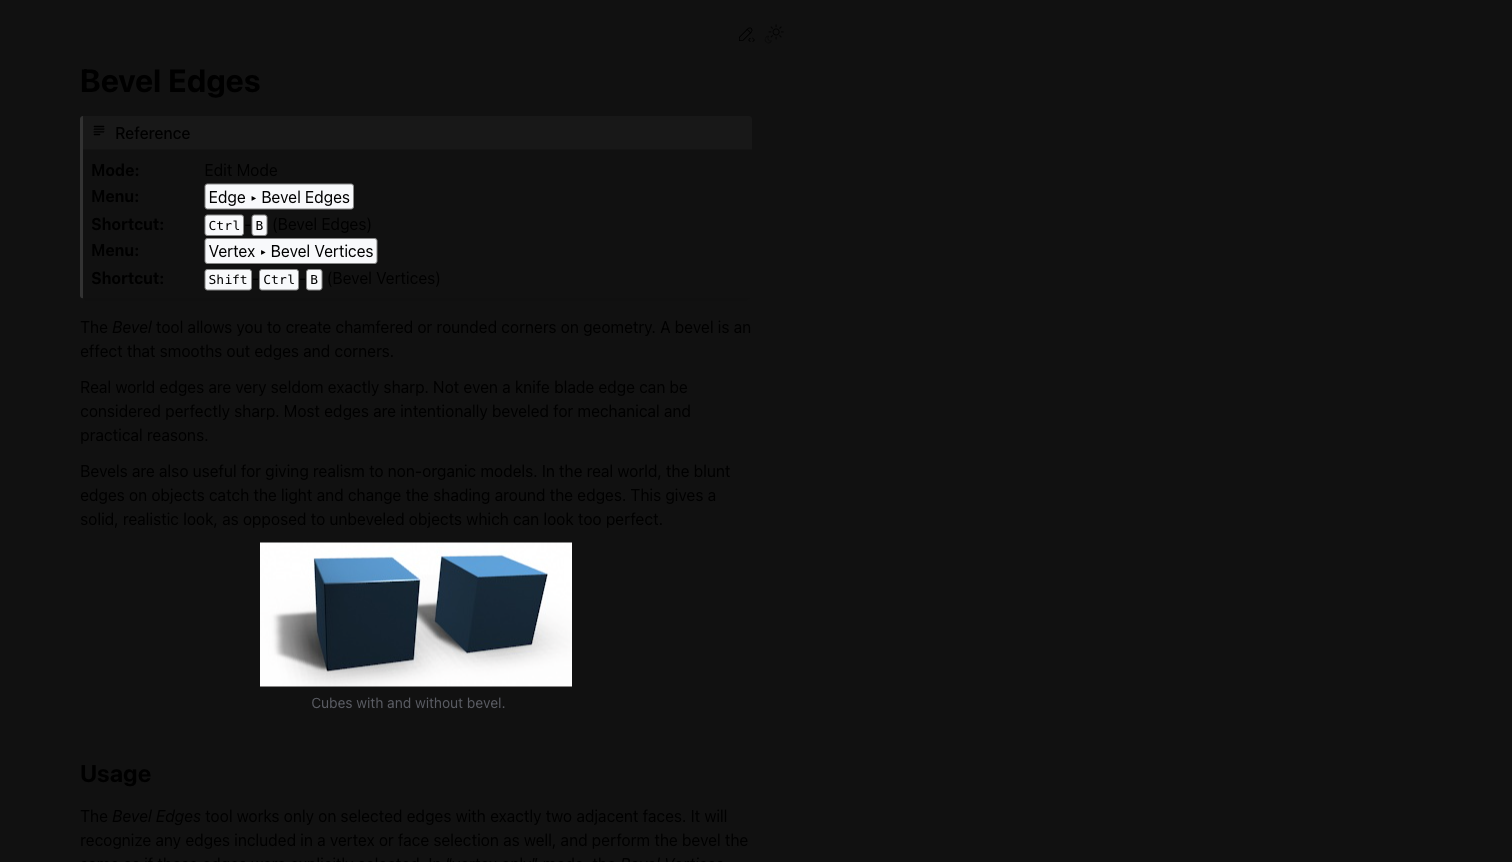
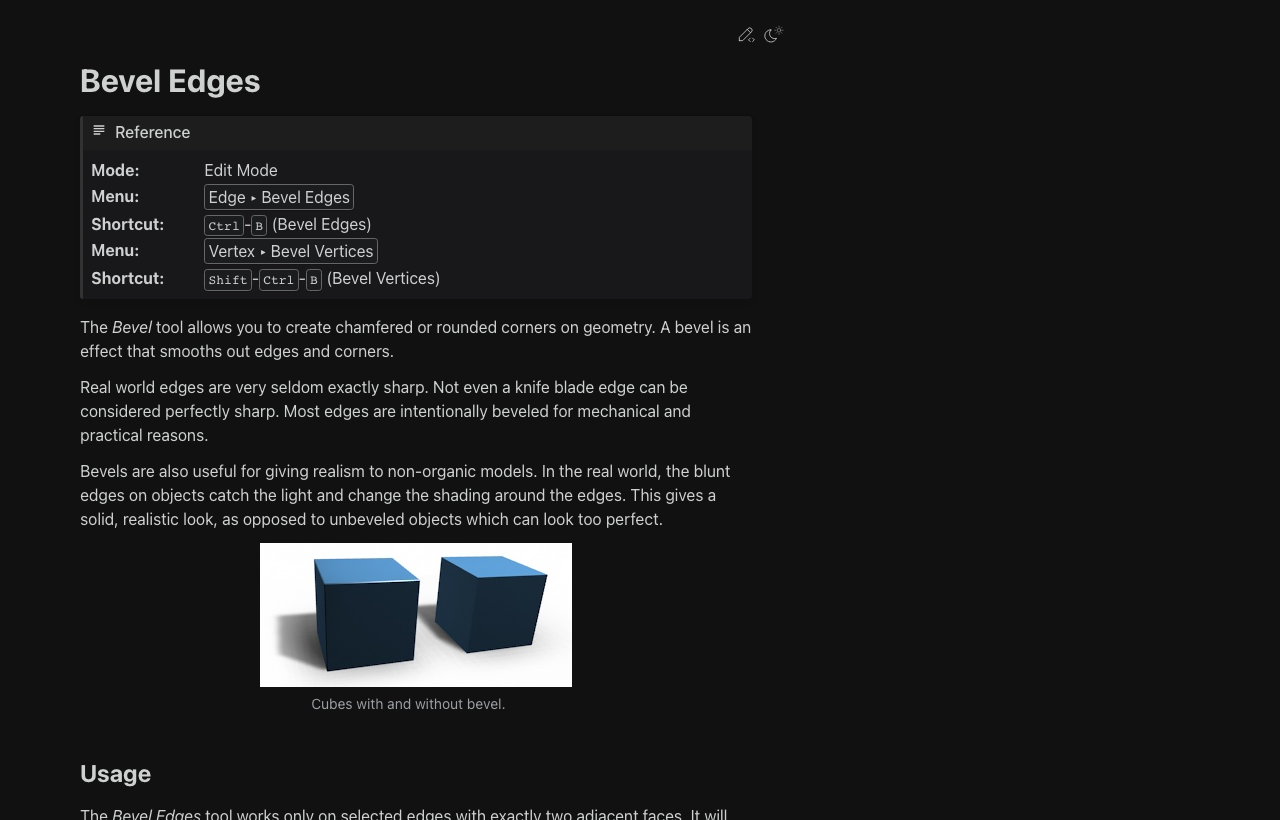
fix: week03 스크린샷 다크모드 재캡처 및 capture 스크립트 수정
- Blender docs 다크모드 미적용으로 어두운 배경에 어두운 텍스트가 겹쳐
  가독성이 없던 week03 스크린샷 13개 전체 재캡처
- capture_screenshots.py에 color_scheme="dark" 옵션 추가하여
  이후 모든 주차 캡처 시 다크모드로 일관 적용

diff --git a/tools/capture_screenshots.py b/tools/capture_screenshots.py
@@ -215,7 +215,7 @@ def main():
 
     with sync_playwright() as p:
         browser = p.chromium.launch(headless=True)
-        ctx = browser.new_context(viewport={"width": 1280, "height": 820})
+        ctx = browser.new_context(viewport={"width": 1280, "height": 820}, color_scheme="dark")
         page = ctx.new_page()
 
         success = 0
